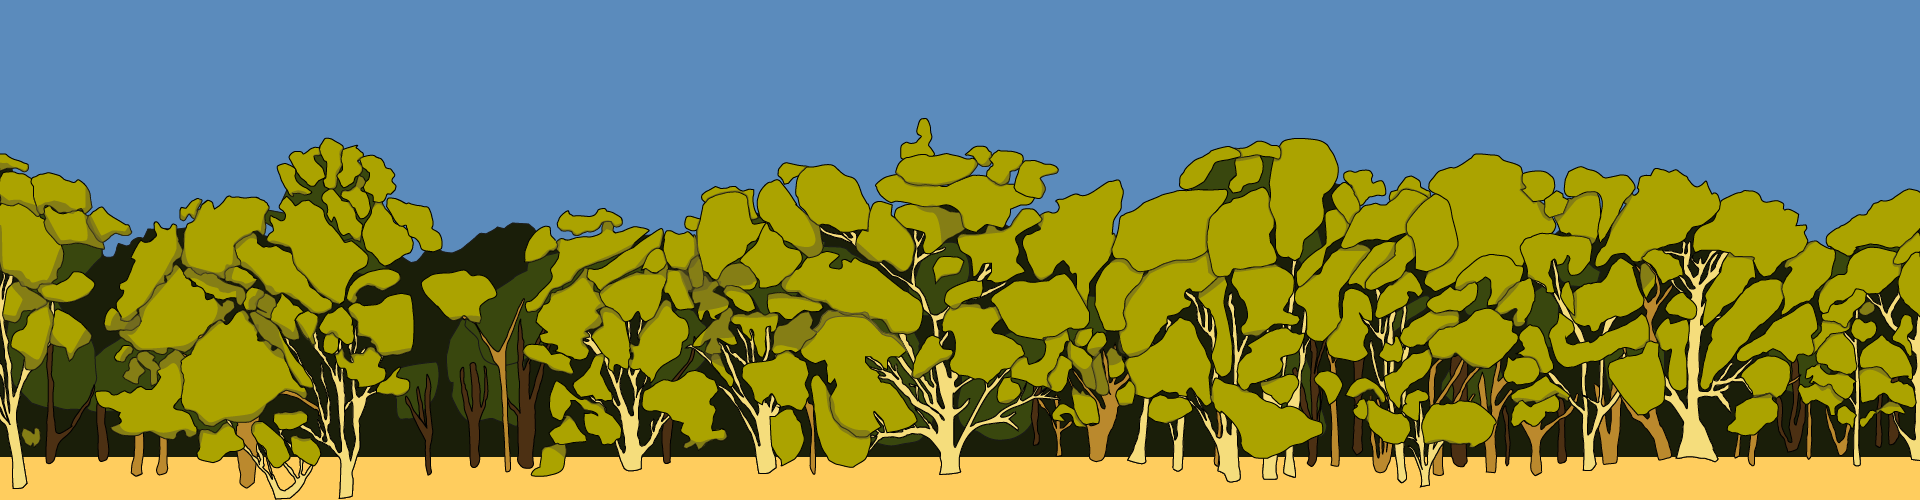
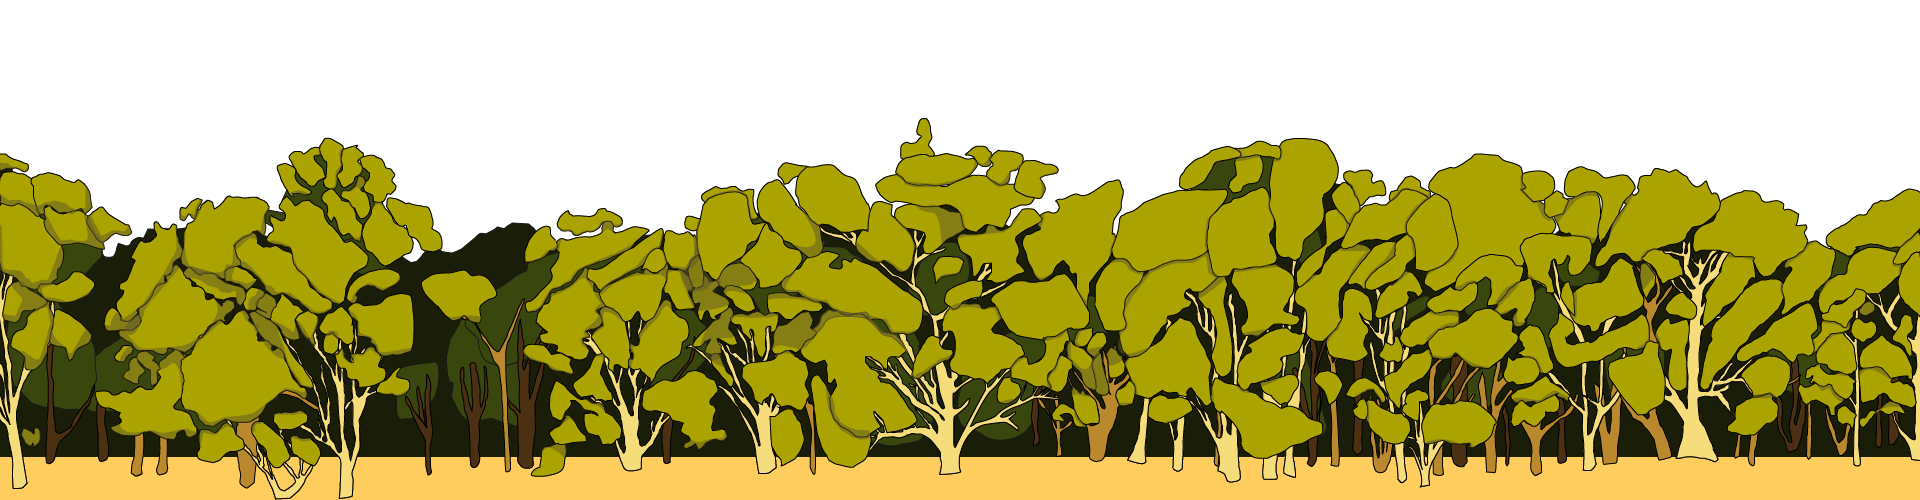
update speech fonts

diff --git a/src/ofApp.cpp b/src/ofApp.cpp
@@ -28,7 +28,7 @@ void ofApp::setup(){
     
     dejaVuSans.load("DejaVuSans.ttf", 12);
     dejaVuSansBold.load("DejaVuSans-Bold.ttf", 28);
-    
+    comic.load("comic.ttf", 18);
     
    _masterState = WELCOME_SCREEN;
     // _masterState = INTERACTIVE_PLAY_STATE;
@@ -42,7 +42,7 @@ void ofApp::setup(){
     _stateTimer = 0;
     _fadeAlpha = 0;
     
-    welcomeBlock.init("DejaVuSans.ttf", 14);
+    welcomeBlock.init("comic.ttf", 18);
     welcomeStringA.push_back("Hi, my name is Dr. Anthony.");
     welcomeStringA.push_back("I am a scientist, and my job is to see the effect of pollution and natural changes on the tiny organisms that live in the top layer of soil in an esturary.");
     welcomeStringA.push_back("Would you like to help?");
@@ -358,7 +358,7 @@ void ofApp::setupImages() {
     bush.load("background_bush.png");
     city.load("background_city.png");
     farm.load("background_farm.png");
-    
+    sky.load("Sky_1.jpg");
     
     // welcome page image
     helloImage.load("welcomeA.png");
@@ -554,7 +554,7 @@ void ofApp::drawIntro() {
             welcomeBlock.setText(welcomeStringA.at(i));
             welcomeBlock.wrapTextX(400);
             welcomeBlock.draw(4*ofGetWidth()/8, 100 + nextHeight);
-            nextHeight += welcomeBlock.getHeight() + 8;
+            nextHeight += welcomeBlock.getHeight() + 12;
         }
         if (openNIDevice.getNumTrackedHands() > 0) {
             if (timer == 0) timer = ofGetElapsedTimeMillis();
@@ -767,7 +767,7 @@ void ofApp::drawBenthic() {
 // _____      draw the top layer    __________ \\
 
 void ofApp::drawLand() {
-
+    sky.draw(0, 0);
     int loc = location % 3;
     switch (loc) {
         case 0:

diff --git a/src/ofApp.h b/src/ofApp.h
@@ -89,7 +89,7 @@ class ofApp : public ofBaseApp{
 //    ofImage landFG1, landFG2;
 //    ofImage sky1, sky2, sky3, sky4;
     
-    ofImage bush, city, farm;
+    ofImage bush, city, farm, sky;
     
     
     // kinect
@@ -133,6 +133,7 @@ class ofApp : public ofBaseApp{
     ofVec2f starRadii;
     ofTrueTypeFont dejaVuSans;
     ofTrueTypeFont dejaVuSansBold;
+    ofTrueTypeFont comic;
     string displayPh;
     void starSetup();
     void drawStars(float averagePollution);

diff --git a/src/character.cpp b/src/character.cpp
@@ -37,7 +37,7 @@ Character::Character(string imageLoc, float tempX, float tempY, string textFileN
         }
     }
     
-    textBox.init("dejaVuSans.ttf", 12);
+    textBox.init("comic.ttf", 24);
     textWidth = tempTextWidth;
     textX = textxpos;
     textY = textypos;
